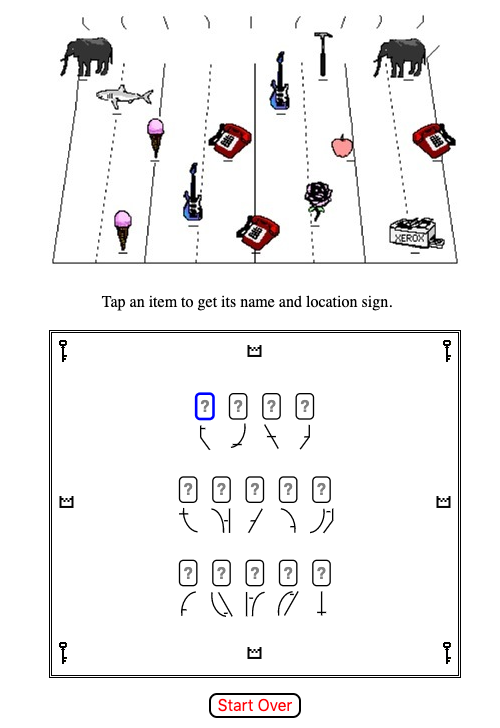
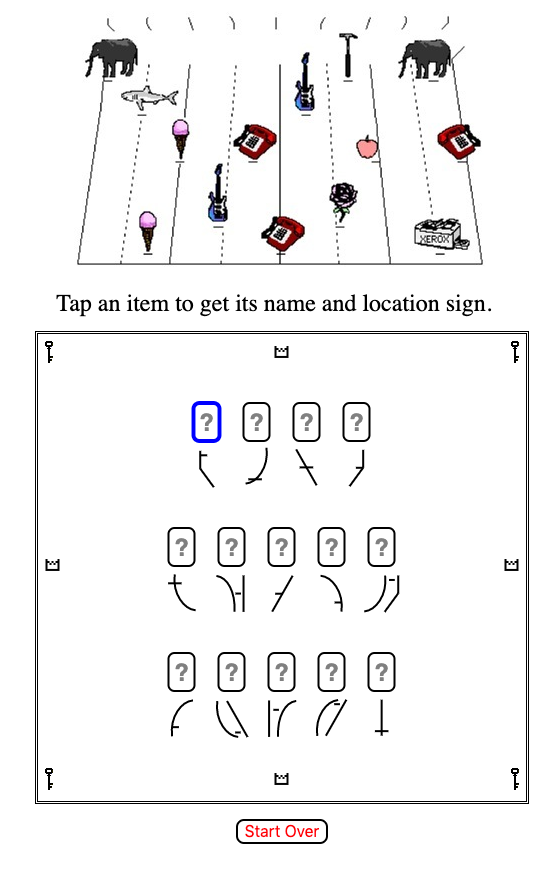
Increased size of status message and answer area.

diff --git a/widgets/LocationPuzzle3/locationpuzzle3.wdgt/locationpuzzle3.html b/widgets/LocationPuzzle3/locationpuzzle3.wdgt/locationpuzzle3.html
@@ -7,7 +7,7 @@
 </head>
 <body>
 <form>
-<table align="center" width="412">
+<table align="center" width="500">
 	<tbody>
 	<tr>
 		<td align="center">
@@ -38,7 +38,7 @@
 	</tr>
 	<tr height="50">
 		<td align="center">
-			<span id="cluename" style="vertical-align: middle">Tap an item to get its name and location sign.</span>
+			<span id="cluename">Tap an item to get its name and location sign.</span>
             <img name="clueimage" src="images/blank.jpg" style="vertical-align: middle">
 		</td>
 	</tr>
@@ -79,7 +79,7 @@
 				<td align="left"><img src="images/crown.png"></td>
 				<td align="center">
 					<svg xmlns="http://www.w3.org/2000/svg" xmlns:xlink="http://www.w3.org/1999/xlink" version="1.1"
-					id="puzzlestate" width="167" height="250" viewBox="0 0 500 750" style="background-color:white;">
+					id="puzzlestate" width="250" height="375" viewBox="0 0 500 750" style="background-color:white;">
 						<g id="message" font-family="'Helvetica-Bold'" font-size="48" text-anchor="middle" transform="translate(25,50)">
 
 							<defs>

diff --git a/widgets/LocationPuzzle3/locationpuzzle3.wdgt/locationpuzzle3.css b/widgets/LocationPuzzle3/locationpuzzle3.wdgt/locationpuzzle3.css
@@ -6,3 +6,8 @@
     font-size: 16px;
     font-weight: normal;
 }
+
+#cluename {
+    font-size: 24px;
+    vertical-align: middle;
+}
